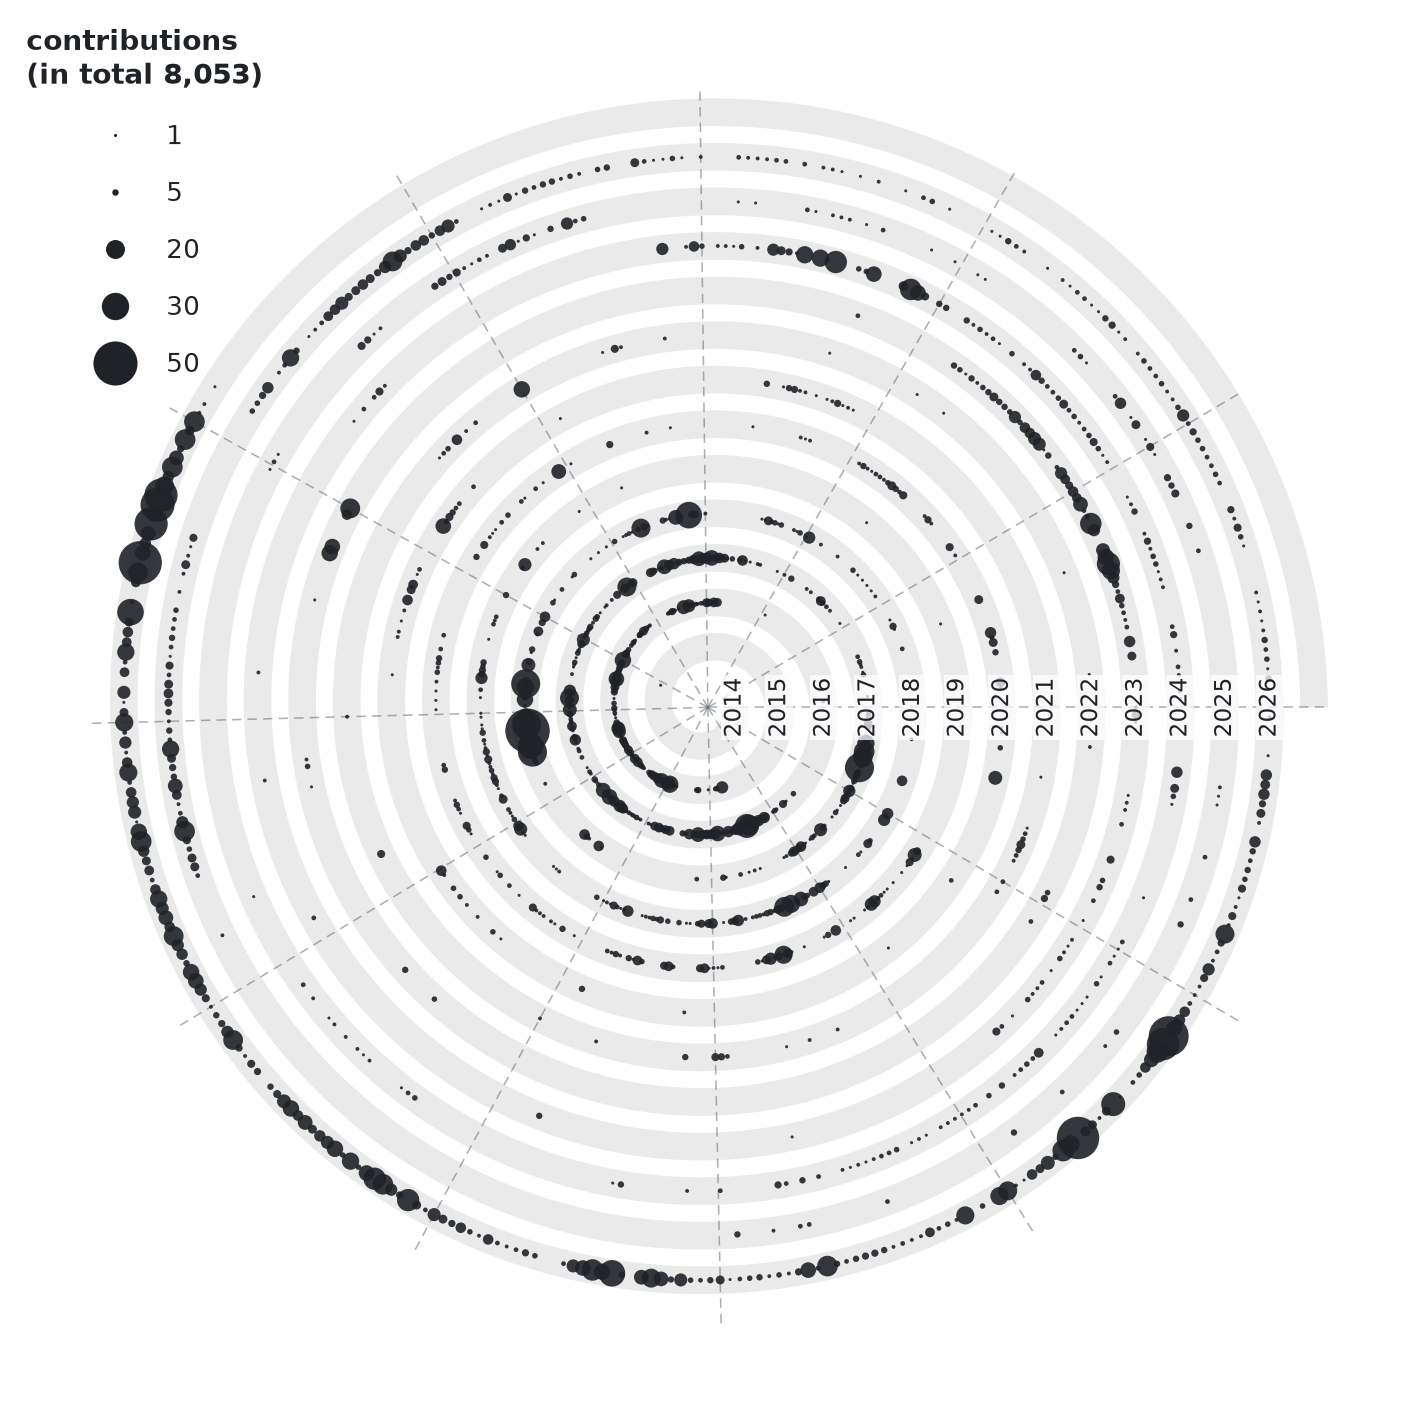
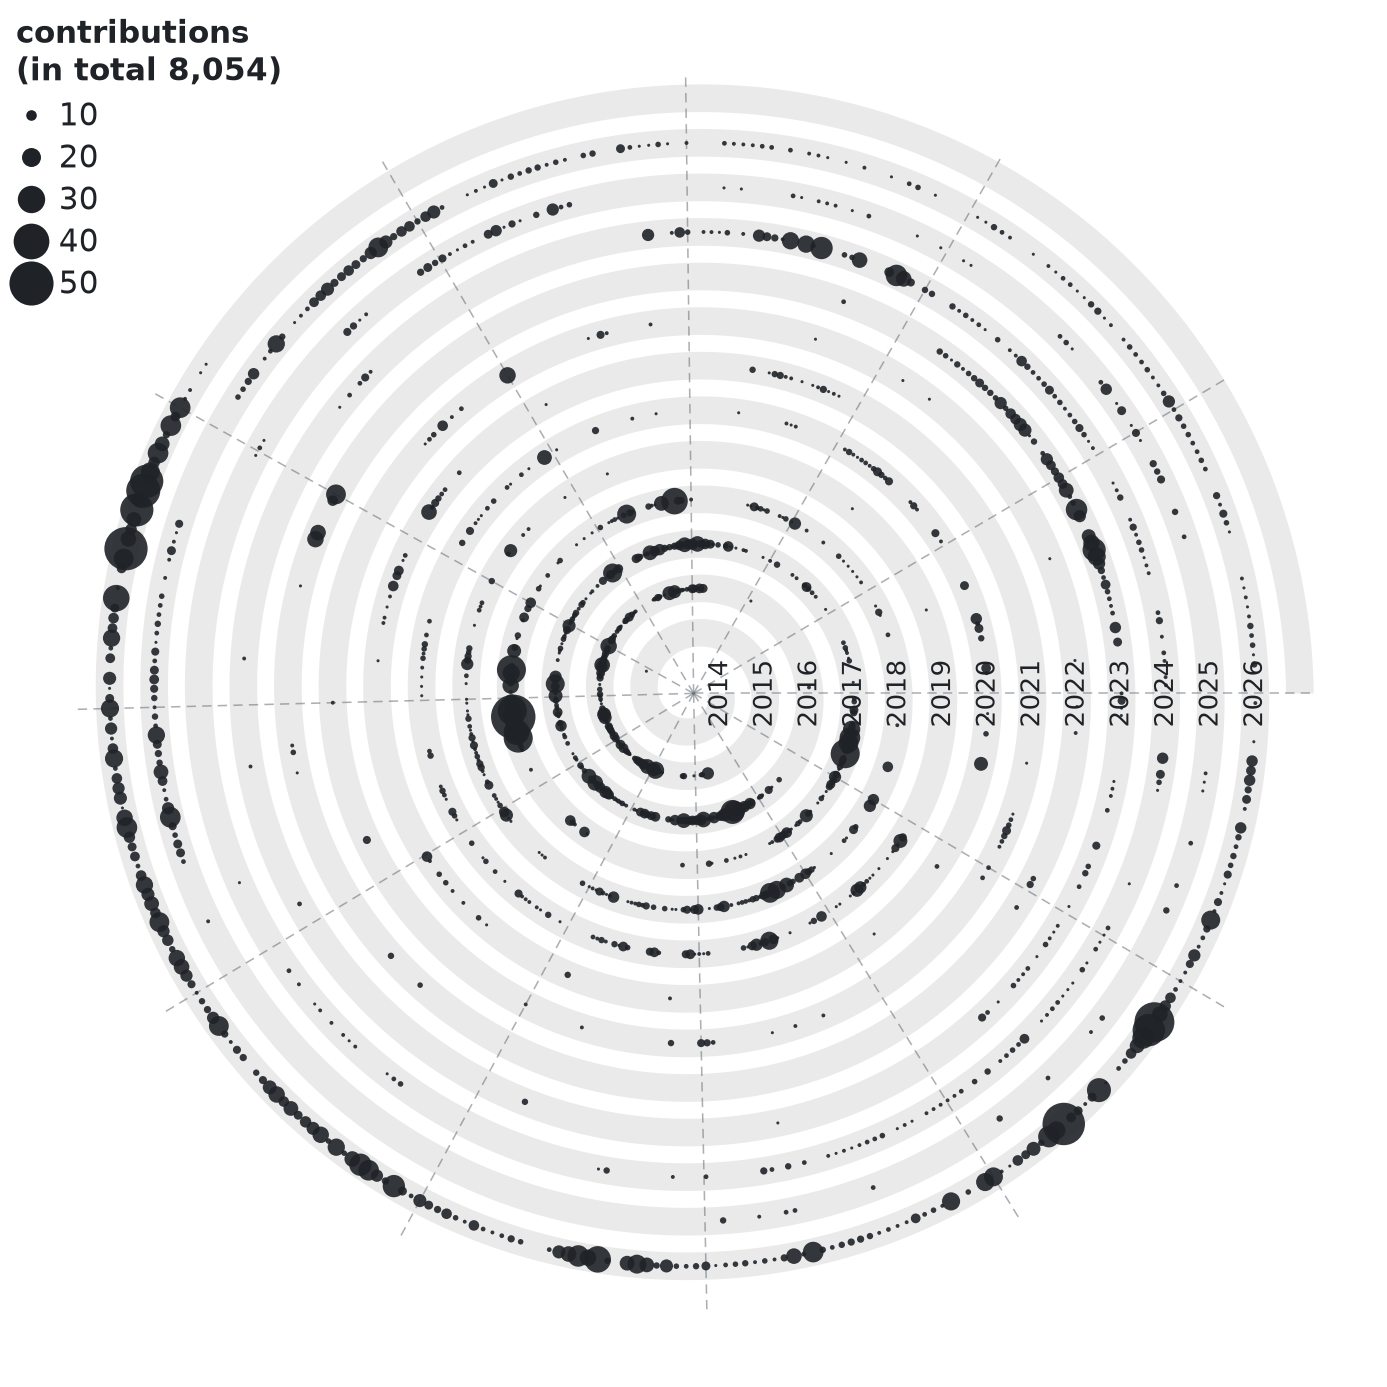
Fit year labels to the ribbon and match the reference legend
Year labels are sized from the measured band width rather than the figure size, so rotated 90 degrees their glyph height stays inside the ribbon at any --size, --dpi or --loop-gap; the background box behind them is gone. The legend now steps in even round values the way spiralize does, with rows packed tight and swatches in a narrow left column.

diff --git a/spiral.py b/spiral.py
@@ -99,17 +99,24 @@ def band_polygon(year, year0, r0, loop_gap, width, steps=400):
     return outer + inner[::-1]
 
 
-def size_ticks(cap):
-    """Round legend values that span the size scale without crowding it."""
-    candidates = [1, 2, 5, 10, 20, 25, 30, 40, 50, 60, 75, 100, 150, 200]
-    ticks = [t for t in candidates if t <= cap]
-    if not ticks:
-        return [max(1, int(cap))]
-    while len(ticks) > 6:
-        ticks = ticks[::2] if len(ticks) > 8 else ticks[1:]
-    if ticks[-1] < cap * 0.7:
-        ticks.append(int(cap))
-    return ticks
+def size_ticks(cap, want=4):
+    """Evenly stepped round values spanning the size scale.
+
+    spiralize's legend runs a single step repeated (5, 10, 15, 20) rather than
+    an ad-hoc set, so pick the round step nearest cap/want and walk it up.
+    """
+    if cap <= 0:
+        return [1]
+    raw = cap / want
+    mag = 10 ** math.floor(math.log10(raw))
+    # On a tie prefer the coarser step, which yields fewer, cleaner rows.
+    step = min((abs(m * mag - raw), -m * mag, m * mag) for m in (1, 2, 2.5, 5, 10))[2]
+    step = max(step, 1)  # counts are integers, so never step in fractions
+    ticks, v = [], step
+    while v <= cap + 1e-9 and len(ticks) < 6:
+        ticks.append(int(v) if float(v).is_integer() else round(v, 1))
+        v += step
+    return ticks or [max(1, int(cap))]
 
 
 def build(counts, args, theme):
@@ -169,17 +176,6 @@ def build(counts, args, theme):
     ax.scatter(xs, ys, s=sizes, color=theme["fg"], linewidths=0,
                alpha=0.9, zorder=3)
 
-    # Year labels set vertically along the axis each loop starts on.
-    for year in range(year0, year1 + 1):
-        r = r0 + (year - year0) * gap
-        ax.text(
-            r * math.cos(START_ANGLE), r * math.sin(START_ANGLE), str(year),
-            ha="center", va="center", rotation=90, color=theme["fg"],
-            fontsize=args.size * 0.95, family="DejaVu Sans", zorder=4,
-            bbox=dict(boxstyle="square,pad=0.10", fc=theme["bg"],
-                      ec="none", alpha=0.75),
-        )
-
     total = sum(counts.values())
     handles = [
         Line2D(
@@ -190,15 +186,19 @@ def build(counts, args, theme):
         )
         for t in size_ticks(cap)
     ]
-    # Top-left inside the frame, as in spiralize's own output.
+    # Top-left inside the frame, as in spiralize's own output: rows packed
+    # tight enough that consecutive swatches nearly touch, dots in a narrow
+    # column, and a bold two-line title carrying the caption.
     leg = ax.legend(
-        handles=handles, loc="upper left", bbox_to_anchor=(-0.02, 1.02),
-        frameon=False, labelspacing=1.2, handletextpad=1.0,
+        handles=handles, loc="upper left", bbox_to_anchor=(0.0, 1.0),
+        frameon=False, labelspacing=0.35, handletextpad=0.4,
+        handlelength=1.0, borderpad=0.0, borderaxespad=0.0,
         title=f"{args.column}\n(in total {total:,})",
-        fontsize=args.size * 1.05, title_fontsize=args.size * 1.15,
+        fontsize=args.size * 1.25, title_fontsize=args.size * 1.25,
     )
     leg.get_title().set_ha("left")
     leg.get_title().set_fontweight("bold")
+    leg._legend_box.align = "left"
     for text in leg.get_texts():
         text.set_color(theme["fg"])
     leg.get_title().set_color(theme["fg"])
@@ -213,6 +213,22 @@ def build(counts, args, theme):
     lim = r_max + gap * 1.6
     ax.set_xlim(-lim, lim)
     ax.set_ylim(-lim, lim)
+
+    # Year labels go on last, sized against the ribbon rather than against the
+    # figure: rotated 90 degrees their glyph height runs radially, so anything
+    # wider than the band spills over the gaps either side. Measuring the
+    # drawn transform keeps that true whatever --size/--dpi/--loop-gap are.
+    fig.canvas.draw()
+    px_per_unit = abs(ax.transData.transform((band_w, 0))[0]
+                      - ax.transData.transform((0, 0))[0])
+    band_pt = px_per_unit * 72.0 / fig.dpi
+    for year in range(year0, year1 + 1):
+        r = r0 + (year - year0) * gap
+        ax.text(
+            r * math.cos(START_ANGLE), r * math.sin(START_ANGLE), str(year),
+            ha="center", va="center", rotation=90, color=theme["fg"],
+            fontsize=band_pt * 0.95, family="DejaVu Sans", zorder=4,
+        )
     return fig
 
 
